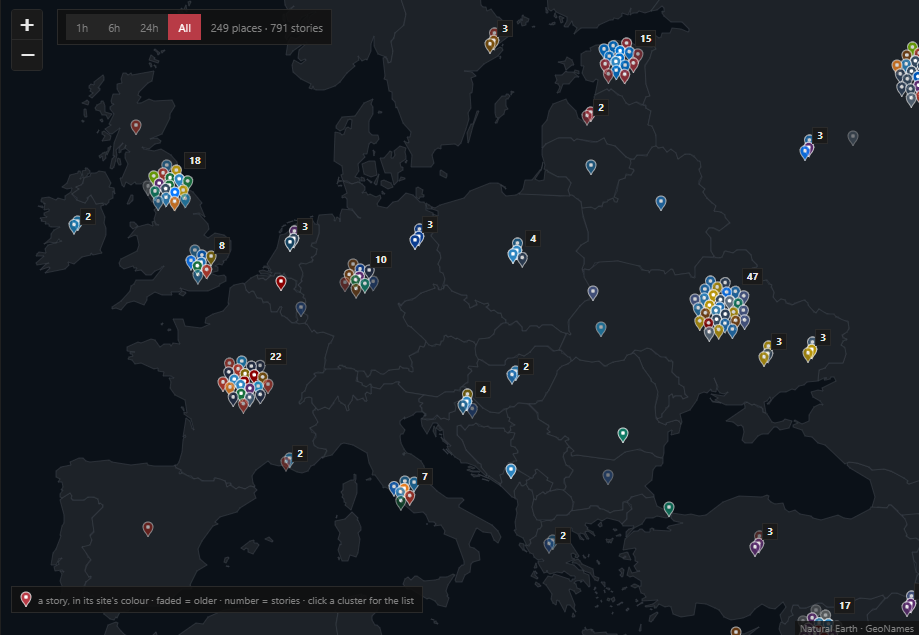
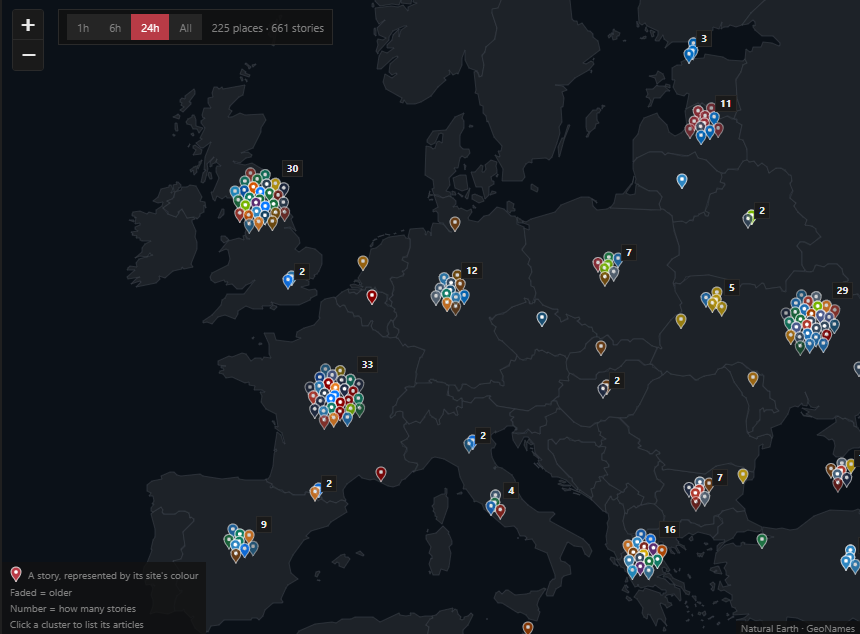
docs: update map legend for improved clarity and layout; update screenshots

diff --git a/src/renderer/styles.css b/src/renderer/styles.css
@@ -467,9 +467,10 @@ body.tabs-scroll .tab .label, body.tabs-scroll .chat-tab .name { flex: 0 1 auto;
 #map-canvas { position: absolute; inset: 0; background: var(--map-ocean); }
 .map-toolbar { position: absolute; top: 10px; left: 56px; z-index: 500; display: flex; gap: 10px; align-items: center;
   padding: 4px 8px; border-radius: var(--radius); background: color-mix(in srgb, var(--panel-bg) 88%, transparent); border: 1px solid var(--border); }
-.map-legend { position: absolute; bottom: 22px; left: 10px; z-index: 500; display: flex; gap: 6px; align-items: center;
-  padding: 4px 8px; border-radius: var(--radius); font-size: var(--fs-xs); color: var(--text-2);
-  background: color-mix(in srgb, var(--panel-bg) 88%, transparent); border: 1px solid var(--border); }
+.map-legend { position: absolute; bottom: 0; left: 0; z-index: 500; display: flex; flex-direction: column; gap: 2px;
+  padding: 4px 8px; font-size: var(--fs-xs); color: var(--text-2);
+  background: color-mix(in srgb, var(--panel-bg) 80%, transparent); }   /* in the corner, like the attribution */
+.map-legend > div { display: flex; gap: 6px; align-items: center; }
 .map-legend svg { display: block; }
 .map-legend path, .map-cluster path { stroke: var(--map-pin-edge); stroke-width: 1; }
 .map-legend circle, .map-cluster circle { fill: #fff; }

diff --git a/src/renderer/index.html b/src/renderer/index.html
@@ -160,7 +160,7 @@
             </div>
             <span id="map-summary" class="muted"></span>
           </div>
-          <div class="map-legend"><svg width="12" height="17" viewBox="-6 -16 12 17"><path d="M0 0C-1.2-3.6-5-6.2-5-10a5 5 0 0 1 10 0c0 3.8-3.8 6.4-5 10z" fill="var(--accent)"/><circle cy="-10" r="1.8"/></svg>a story, in its site's colour · faded = older · number = stories · click a cluster for the list</div>
+          <div class="map-legend"><div><svg width="12" height="17" viewBox="-6 -16 12 17"><path d="M0 0C-1.2-3.6-5-6.2-5-10a5 5 0 0 1 10 0c0 3.8-3.8 6.4-5 10z" fill="var(--accent)"/><circle cy="-10" r="1.8"/></svg>A story, represented by its site's colour</div><div>Faded = older</div><div>Number = how many stories</div><div>Click a cluster to list its articles</div></div>
         </div>
         <div id="story-empty" class="story-empty">
           <div class="glyph">◎</div>
